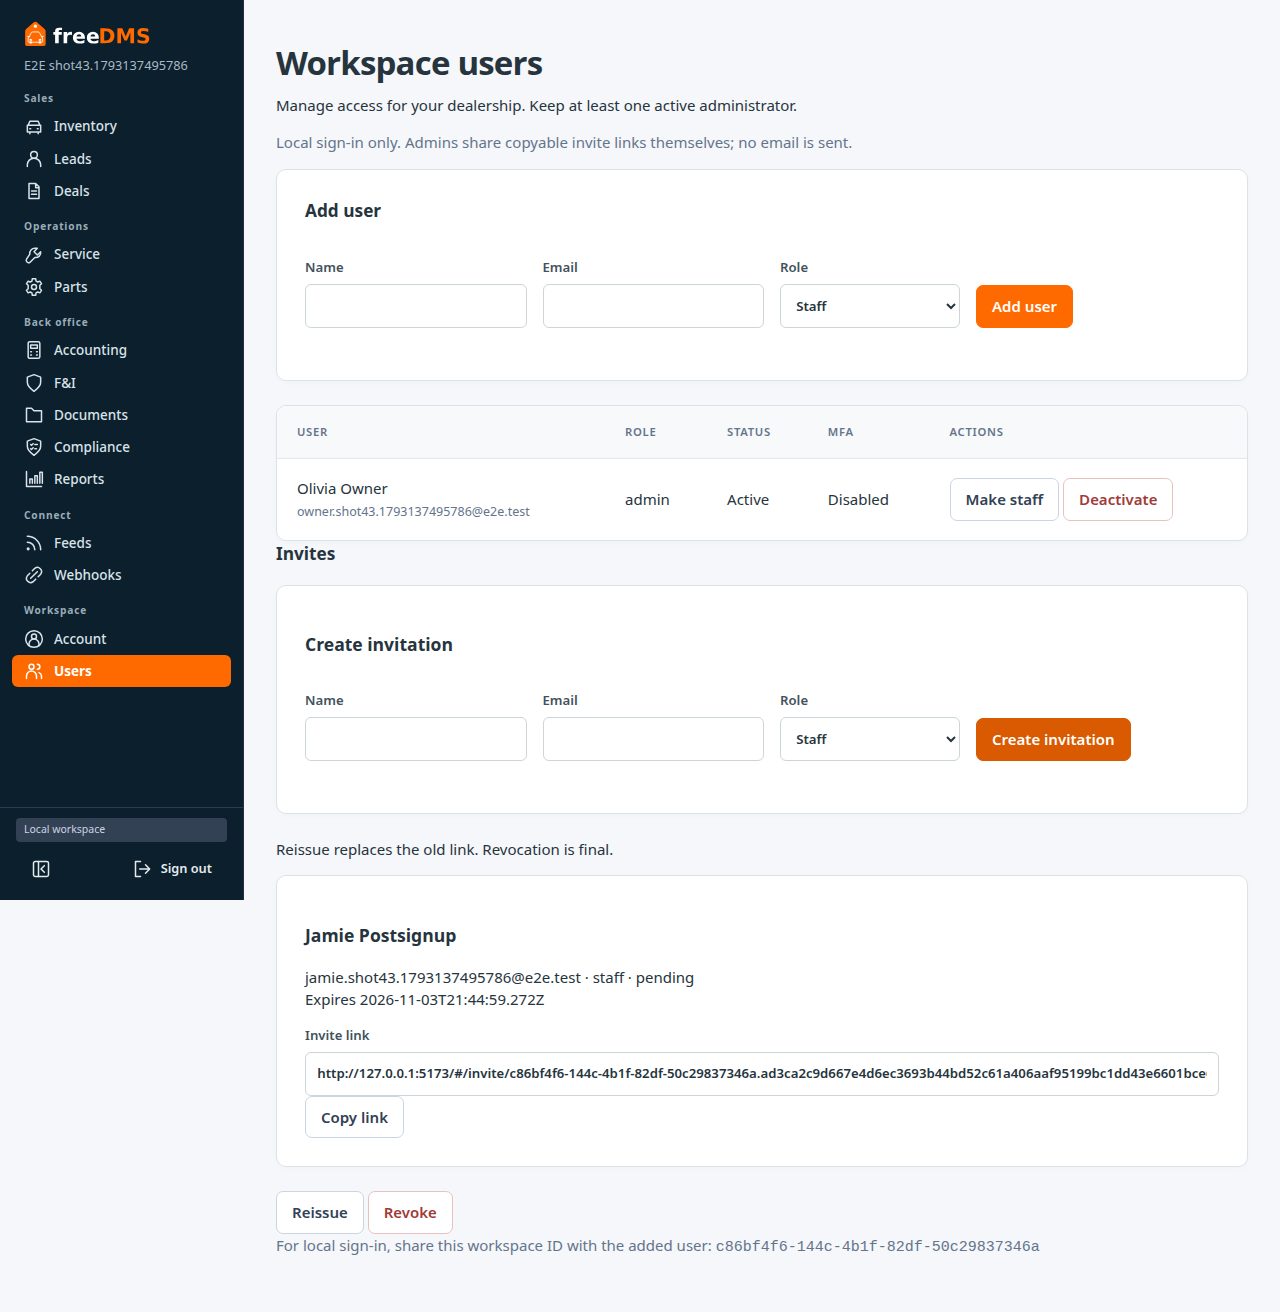
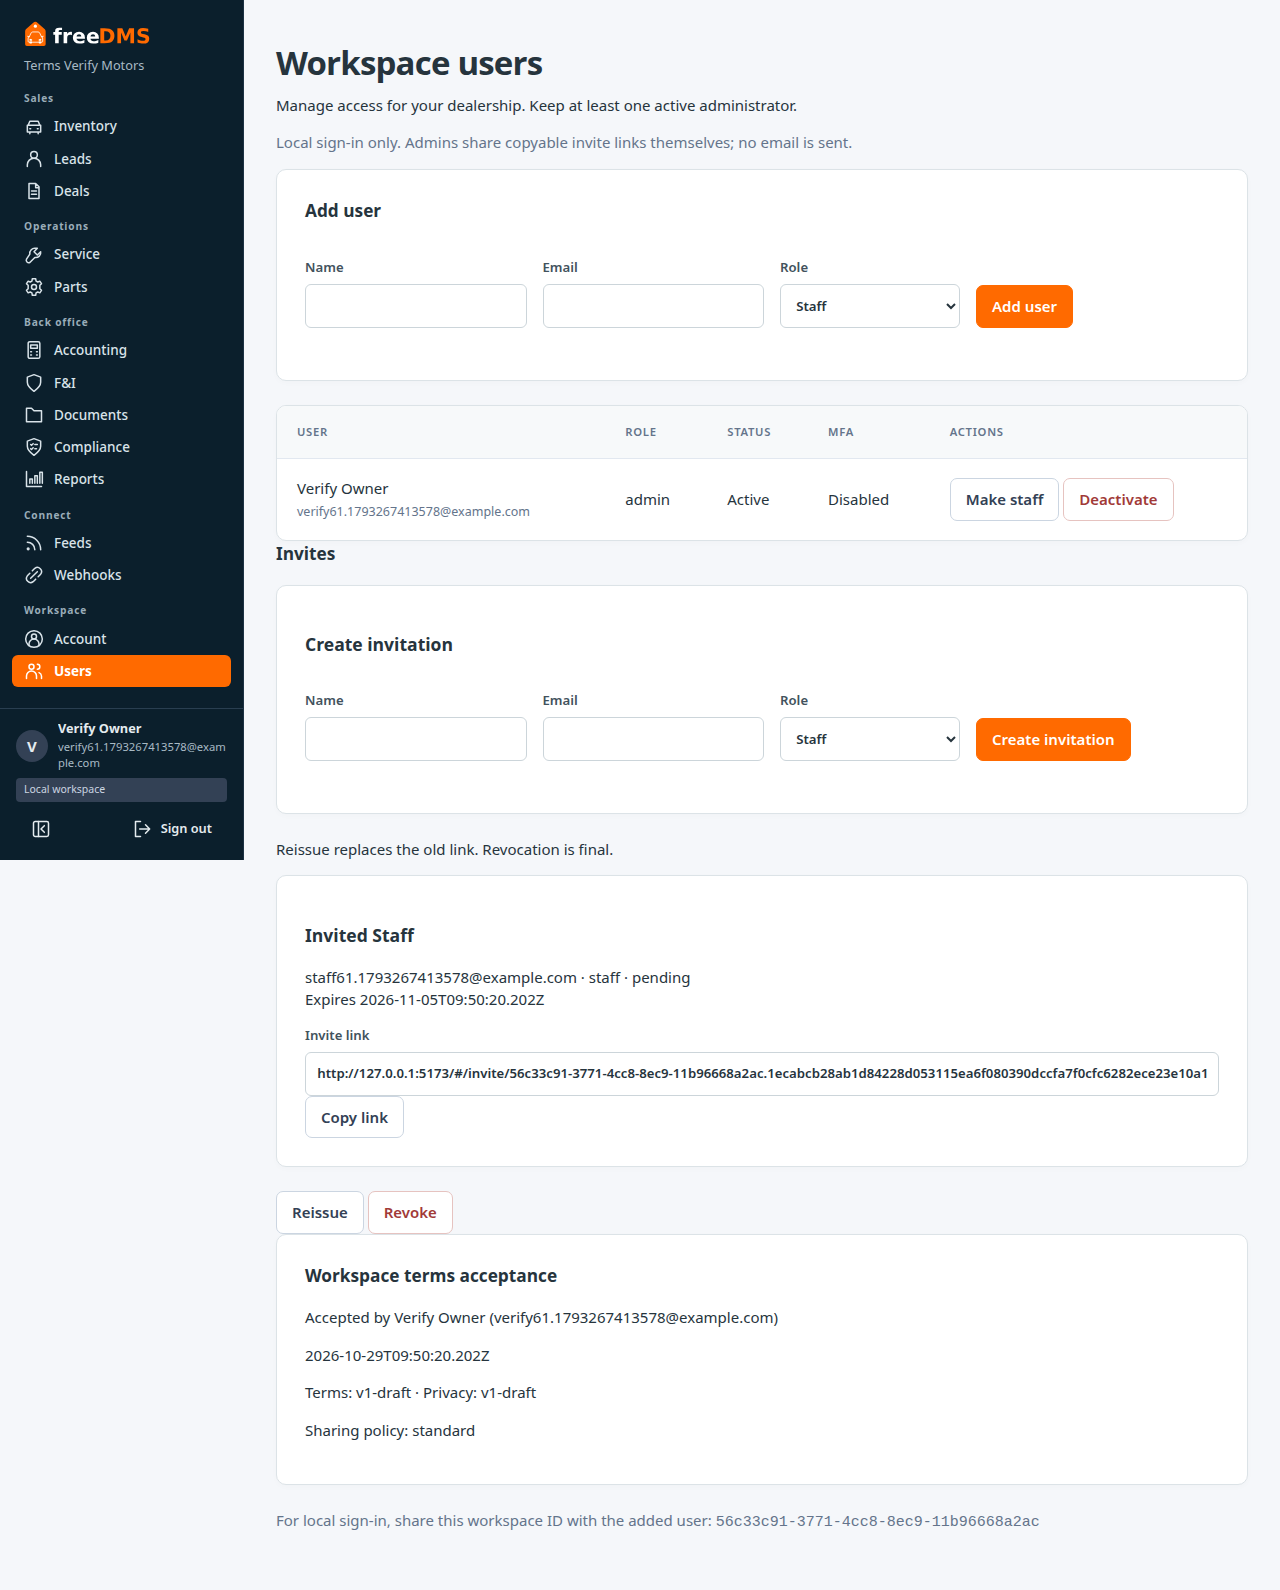
Fix terms checkbox layout; refresh README screenshots for #61

diff --git a/packages/web/src/onboarding.ts b/packages/web/src/onboarding.ts
@@ -25,7 +25,7 @@ export function signupPayload(data: Onboarding) {
   return {...data, onboarding: true as const, acceptance: {termsVersion: TERMS_VERSION, privacyVersion: PRIVACY_VERSION}};
 }
 export function acceptanceHtml(accepted: boolean): string {
-  return `<p><strong>Draft — pending final legal review</strong></p><p>By accepting, you represent that the dealership exists and you have authority to bind it. If no dealership is bound because it does not exist or you lack authority, you agree personally to be bound as the Dealer, as described in Section 1.1.</p><label><input type="checkbox" name="termsAccepted" ${accepted ? 'checked' : ''}> I agree to the <a href="#/terms" target="_blank" rel="noopener noreferrer">Terms of Service</a> and <a href="#/privacy" target="_blank" rel="noopener noreferrer">Privacy Notice</a></label>`;
+  return `<p><strong>Draft — pending final legal review</strong></p><p>By accepting, you represent that the dealership exists and you have authority to bind it. If no dealership is bound because it does not exist or you lack authority, you agree personally to be bound as the Dealer, as described in Section 1.1.</p><label class="check terms-accept"><input type="checkbox" name="termsAccepted" ${accepted ? 'checked' : ''}><span>I agree to the <a href="#/terms" target="_blank" rel="noopener noreferrer">Terms of Service</a> and <a href="#/privacy" target="_blank" rel="noopener noreferrer">Privacy Notice</a></span></label>`;
 }
 export function mountOnboarding(root: HTMLElement, finish: (data: ReturnType<typeof signupPayload>) => Promise<{invites: Invite[]}>, enter: () => void): void {
   const data: Onboarding = {name: '', email: '', dealership: '', address: '', phone: '', dealerType: '', invites: []};

diff --git a/packages/web/src/style.css b/packages/web/src/style.css
@@ -246,4 +246,5 @@ button, .button { transition: background-color .15s, border-color .15s; }
 
 .legal-document { max-width: 850px; margin: 2rem auto; padding: 1.5rem; line-height: 1.65; }
 .legal-document h2 { margin-top: 2rem; }
-input[name="termsAccepted"] { width: auto; }
+.terms-accept { align-items: flex-start; font-weight: 400; }
+.terms-accept input { width: 18px; height: 18px; min-height: 18px; margin: 2px 0 0; padding: 0; flex: none; }

diff --git a/README.md b/README.md
@@ -60,6 +60,13 @@ of Service and Privacy Notice before creating the workspace.
 
 ![Onboarding review](docs/screenshots/onboarding-review.png)
 
+**Terms and privacy** — both documents are readable in the app before signup,
+flagged as drafts pending final legal review. The accepted versions and the
+effective sharing policy are recorded at workspace creation; admins can see
+the record on the Users screen.
+
+![Terms of Service page](docs/screenshots/terms-of-service.png)
+
 **Invite links** — copy and share links yourself. No email is sent.
 
 ![Onboarding finish and invite links](docs/screenshots/onboarding-finish.png)
